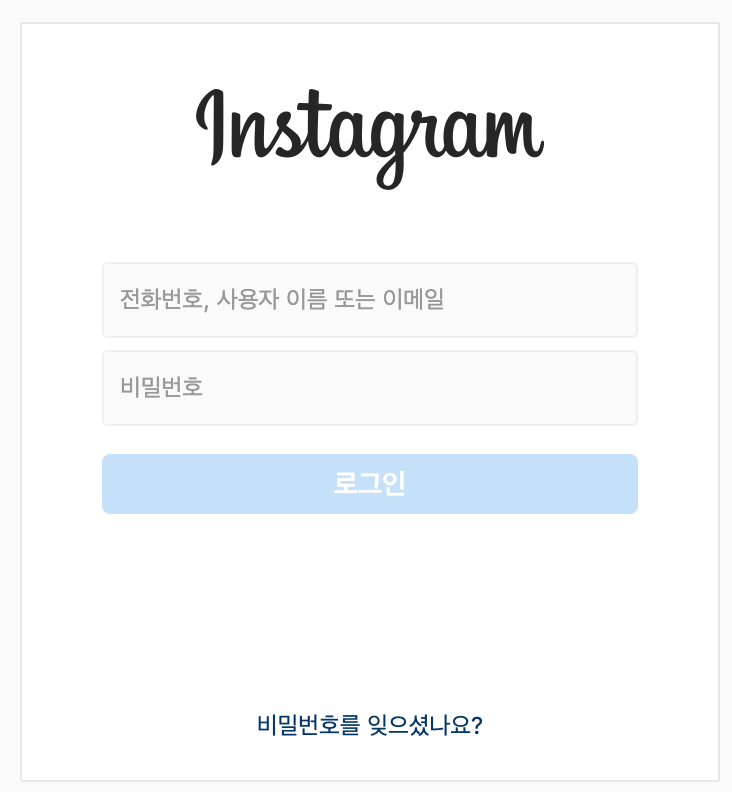
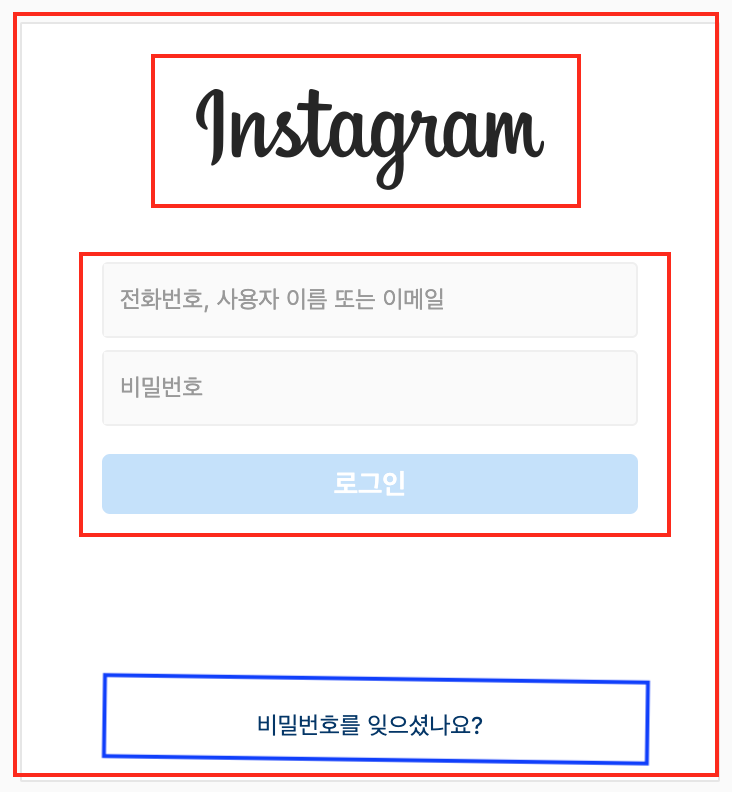
로그인 페이지 완성

Changed region(s): [[0.0, 0.0, 0.9918, 1.0], [0.0902, 0.303, 0.9317, 0.697], [0.1803, 0.0606, 0.8115, 0.2727]]

diff --git a/students/17th/Kwakjinseok/styles/login.css b/students/17th/Kwakjinseok/styles/login.css
@@ -1,0 +1,61 @@
+*{
+    box-sizing: border-box;
+}
+
+.biggest{
+    width: 500px;
+    height: 560px;
+    margin :  100px auto;
+    border : 1px solid #ebebeb;
+    display: flex;
+    flex-direction: column;
+    align-items: center;
+}
+
+#Logo{
+    font-family: 'Lobster', cursive;
+    font-size: 70px;
+    padding: 0;
+    margin:25px 0 40px 0;
+}
+
+main{
+    /* border: 1px dotted black; */
+    width: 100%;
+    display: flex;
+    flex-direction: column;
+    align-items: center;
+}
+
+input{
+    background-color:#f9f9f9;
+    display: block;
+    width: 400px;
+    height: 50px;
+    padding: 2px 0 2px 10px;
+    margin: 5px;
+    font-size: 17px;
+    box-shadow: none;
+    border : 1px solid #ebebeb;
+    border-radius: 3px;
+}
+
+button{
+    width: 400px;
+    height: 50px;
+    font-size: 25px;
+    margin-top: 15px;
+    border: none;
+    background-color: #b8daf9;
+    border-radius: 8px;
+    color: white;
+}
+
+footer{
+    width: 350px;
+    text-align: center;
+    margin-top: 150px;
+}
+
+
+

diff --git a/students/17th/Kwakjinseok/login.html b/students/17th/Kwakjinseok/login.html
@@ -4,10 +4,28 @@
     <meta charset="UTF-8">
     <meta name="viewport" content="width=device-width, initial-scale=1.0">
     <title>Document</title>
-    <script src="js/login.js"></script>
-    
+    <script defer src="js/login.js"></script>
+    <link rel="stylesheet" href="styles/login.css">
+    <link href="https://fonts.googleapis.com/css2?family=Lobster&display=swap" rel="stylesheet">
 </head>
 <body>
-    
+    <div class="biggest">
+        <header id="Logo">
+            Instargram
+        </header>  
+
+        <main>
+            <input class ="weAreInput" id="login" type="text" placeholder="전화번호,사용자 이름 또는 이메일">
+            <input class ="weAreInput" id="password" type="password" placeholder="비밀번호">
+            
+            <button>로그인</button>
+        </main>
+        
+        <footer>
+            비밀번호를 잊으셨나요?
+        </footer>
+    </div>
+
 </body>
-</html>
+</body>
+</html> 

diff --git a/students/17th/Kwakjinseok/js/login.js b/students/17th/Kwakjinseok/js/login.js
@@ -1,0 +1,30 @@
+'use strict'
+let idid = document.getElementById("login");
+let pwpw = document.getElementById('password');
+
+idid.addEventListener('keyup', function(){
+const idValue = idid.value;
+const pwValue = pwpw.value;
+
+
+if (idValue.length !== 0 && pwValue.length !== 0){
+document.getElementsByTagName('button')[0].style.backgroundColor = 'yellow'
+} if (idValue.length === 0 || pwValue.length ===0){
+    document.getElementsByTagName('button')[0].style.backgroundColor = '#b8daf9'
+} 
+
+} 
+)
+
+pwpw.addEventListener('keyup', function(){
+    const idValue = idid.value;
+    const pwValue = pwpw.value;
+    
+    
+    if (idValue.length !== 0 && pwValue.length !==0){
+    document.getElementsByTagName('button')[0].style.backgroundColor = 'yellow'}
+     if (idValue.length === 0 || pwValue.length ===0){
+        document.getElementsByTagName('button')[0].style.backgroundColor = '#b8daf9'
+     }
+    }  
+    )
